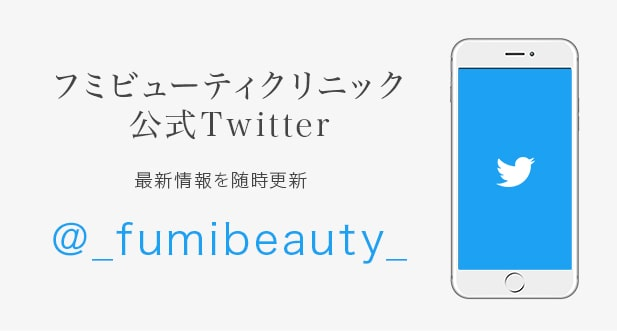
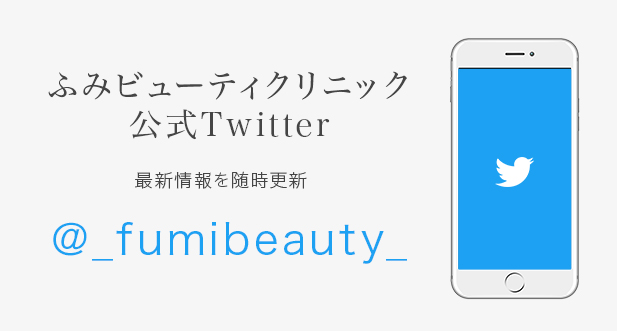
誤字修正

diff --git a/css/scss/base/_base.scss b/css/scss/base/_base.scss
@@ -400,12 +400,12 @@ body.page {
     }
 }
 
-/* 美肌治療 トップ */
+/* 下層ページ　トップ */
 
 .page-head {
     h1 {
         @media (max-width: 767px) {
-            font-size: 1.32rem;
+            font-size: 1.6rem;
         }
     }
 }

diff --git a/css/style.css b/css/style.css
@@ -362,10 +362,10 @@ body.page {
   margin: 0 auto 15px;
 }
 
-/* 美肌治療 トップ */
+/* 下層ページ　トップ */
 @media (max-width: 767px) {
   .page-head h1 {
-    font-size: 1.32rem;
+    font-size: 1.6rem;
   }
 }
 

diff --git a/page-access.php b/page-access.php
@@ -1,6 +1,6 @@
 <?php
 /*
-Template Name: アクセス 
+Template Name: アクセス
 */
 
 ?>
@@ -14,11 +14,11 @@ Template Name: アクセス
   <div class="thumb"><img src="<?php echo get_template_directory_uri(); ?>/img/access/clinic_thumbjpg.jpg?0130" alt="院内写真"></div>
   <div class="text box-size gosic">
     <h2 class="gd">fumi beauty clinic<br>
-      <span class="sm"> (ふみビューティクリニック梅田)</span> </h2>
+      <span class="sm"> (ふみビューティークリニック梅田)</span> </h2>
     <dl class="flex">
       <dt>診療科目</dt>
       <dd>美容皮膚科、形成外科、皮膚科</dd>
-    </dl>  
+    </dl>
     <dl class="flex">
       <dt>院長</dt>
       <dd>先山 史</dd>
@@ -164,12 +164,12 @@ Template Name: アクセス
             zoom: 16,
             center: latlng
         });
-			
+
              var marker = new google.maps.Marker({
           position: latlng,
           map: map
         });
-			
+
         /*=========ここから追加=========*/
         var mapStyle = [ {
             "stylers": [ {
@@ -181,7 +181,7 @@ Template Name: アクセス
             map.setMapTypeId( 'GrayScaleMap' );
         /*=========ここまで追加=========*/
       }
-</script> 
+</script>
 <script async defer src="https://maps.googleapis.com/maps/api/js?key=AIzaSyDBwr6DPo5X5S4CbkcKpSV5atpzNnKAifI&callback=initMap"></script>
 <?php wp_footer(); ?>
 <?php get_footer();?>

diff --git a/page-siwa.php b/page-siwa.php
@@ -6,7 +6,7 @@
 ?>
 <?php get_header()?>
 <div class="page-head">
-  <h1 class="tc f-ryu">施術：しわ治療</h1>
+  <h1 class="tc f-ryu">しわ治療</h1>
   <?php echo breadcrumb_func(); ?> </div>
 <section class="ope-top-desc gosic">
   <p class="tc pc">しわには動的なしわ(お顔の表情によってできる表情じわ)と<br>
@@ -470,12 +470,16 @@
     <h2 class="tc ls1">料金表</h2>
     <div class="price-list gosic">
       <dl class="flex">
-        <dt class="fw600">種類</dt>
+        <dt class="fw600">SUNEKOS(スネコス)</dt>
         <dd class="f-bold">税別</dd>
       </dl>
-      <dl class="flex">
-        <dt>SUNEKOS(スネコス)</dt>
-        <dd>お問い合わせください</dd>
+     <dl class="flex">
+        <dt>1回</dt>
+        <dd>¥50,000</dd>
+        </dl>
+        <dl class="flex">
+        <dt>1回 ※2回目以降1ヶ月以内の場合</dt>
+        <dd>¥45,000</dd>
         </dl>
     </div>
   </div>

diff --git a/page-medikaru.php b/page-medikaru.php
@@ -95,12 +95,16 @@ Template Name: メディカルエステ
     <h2 class="tc ls1">料金表</h2>
     <div class="price-list gosic">
       <dl class="flex">
-        <dt class="fw600">種類</dt>
+        <dt class="fw600">SUNEKOS(スネコス)</dt>
         <dd class="f-bold">税別</dd>
       </dl>
       <dl class="flex">
-        <dt>SUNEKOS(スネコス)</dt>
-        <dd>お問い合わせください</dd>
+        <dt>1回</dt>
+        <dd>¥50,000</dd>
+        </dl>
+        <dl class="flex">
+        <dt>1回 ※2回目以降1ヶ月以内の場合</dt>
+        <dd>¥45,000</dd>
         </dl>
     </div>
   </div>

diff --git a/index.php b/index.php
@@ -437,7 +437,7 @@
         <img src="<?php echo get_template_directory_uri(); ?>/img/common/insta_bnr.jpg?0216" alt="insta_bnr">
         <?php endif; ?>
         </a> </div>
-      <div class="bnr"> <a href="https://twitter.com/@_fumibeauty_" target="_blank"> <img src="<?php echo get_template_directory_uri(); ?>/img/common/twitter_bnr.jpg?0910" alt="twitter_bnr"> </a> </div>
+      <div class="bnr"> <a href="https://twitter.com/@_fumibeauty_" target="_blank"> <img src="<?php echo get_template_directory_uri(); ?>/img/common/twitter_bnr.jpg?03065" alt="twitter_bnr"> </a> </div>
     </div>
 
     <!-- ./inner -->

diff --git a/header.php b/header.php
@@ -9,7 +9,7 @@
 <meta name="format-detection" content="telephone=no">
 <link rel="stylesheet" href="https://cdnjs.cloudflare.com/ajax/libs/Swiper/3.4.1/css/swiper.min.css">
 <link rel="stylesheet" href="<?php echo get_template_directory_uri(); ?>/css/common.css">
-<link rel="stylesheet" href="<?php echo get_template_directory_uri(); ?>/css/style.css?0225457852214555">
+<link rel="stylesheet" href="<?php echo get_template_directory_uri(); ?>/css/style.css?0225457852214511">
 <script>
   (function(d) {
     var config = {

diff --git a/page-tarumi.php b/page-tarumi.php
@@ -6,7 +6,7 @@ Template Name: たるみ治療
 ?>
 <?php get_header()?>
 <div class="page-head">
-  <h1 class="tc f-ryu">施術：たるみ治療</h1>
+  <h1 class="tc f-ryu">たるみ治療</h1>
   <?php echo breadcrumb_func(); ?> </div>
 <section class="ope-top-desc gosic">
   <p class="tc pc">当院では溶ける糸を用いたリフトアップやヒアルロン酸注入<br>

diff --git a/page-kogao.php b/page-kogao.php
@@ -6,7 +6,7 @@ Template Name: 小顔治療
 ?>
 <?php get_header()?>
 <div class="page-head">
-  <h1 class="tc f-ryu">施術：小顔治療</h1>
+  <h1 class="tc f-ryu">小顔治療</h1>
   <?php echo breadcrumb_func(); ?> </div>
 <section class="ope-top-desc gosic">
   <p class="tc pc">お顔が大きくみえる原因が脂肪なのか、筋肉のはりなのか、<br>

diff --git a/page-keiseigeka.php b/page-keiseigeka.php
@@ -6,7 +6,7 @@ Template Name: 形成外科治療
 ?>
 <?php get_header()?>
 <div class="page-head">
-  <h1 class="tc f-ryu">施術：形成外科治療</h1>
+  <h1 class="tc f-ryu">形成外科治療</h1>
   <?php echo breadcrumb_func(); ?> </div>
 <section class="ope-intro bg-cp">
   <div class="inner flex al-cent">

diff --git a/page-nose.php b/page-nose.php
@@ -5,7 +5,7 @@ Template Name: 鼻の糸
 ?>
 <?php get_header()?>
 <div class="page-head">
-  <h1 class="tc f-ryu">施術：鼻の糸</h1>
+  <h1 class="tc f-ryu">鼻の糸</h1>
   <?php echo breadcrumb_func(); ?> </div>
 <section class="ope-intro bg-cp">
   <div class="inner flex al-cent">
